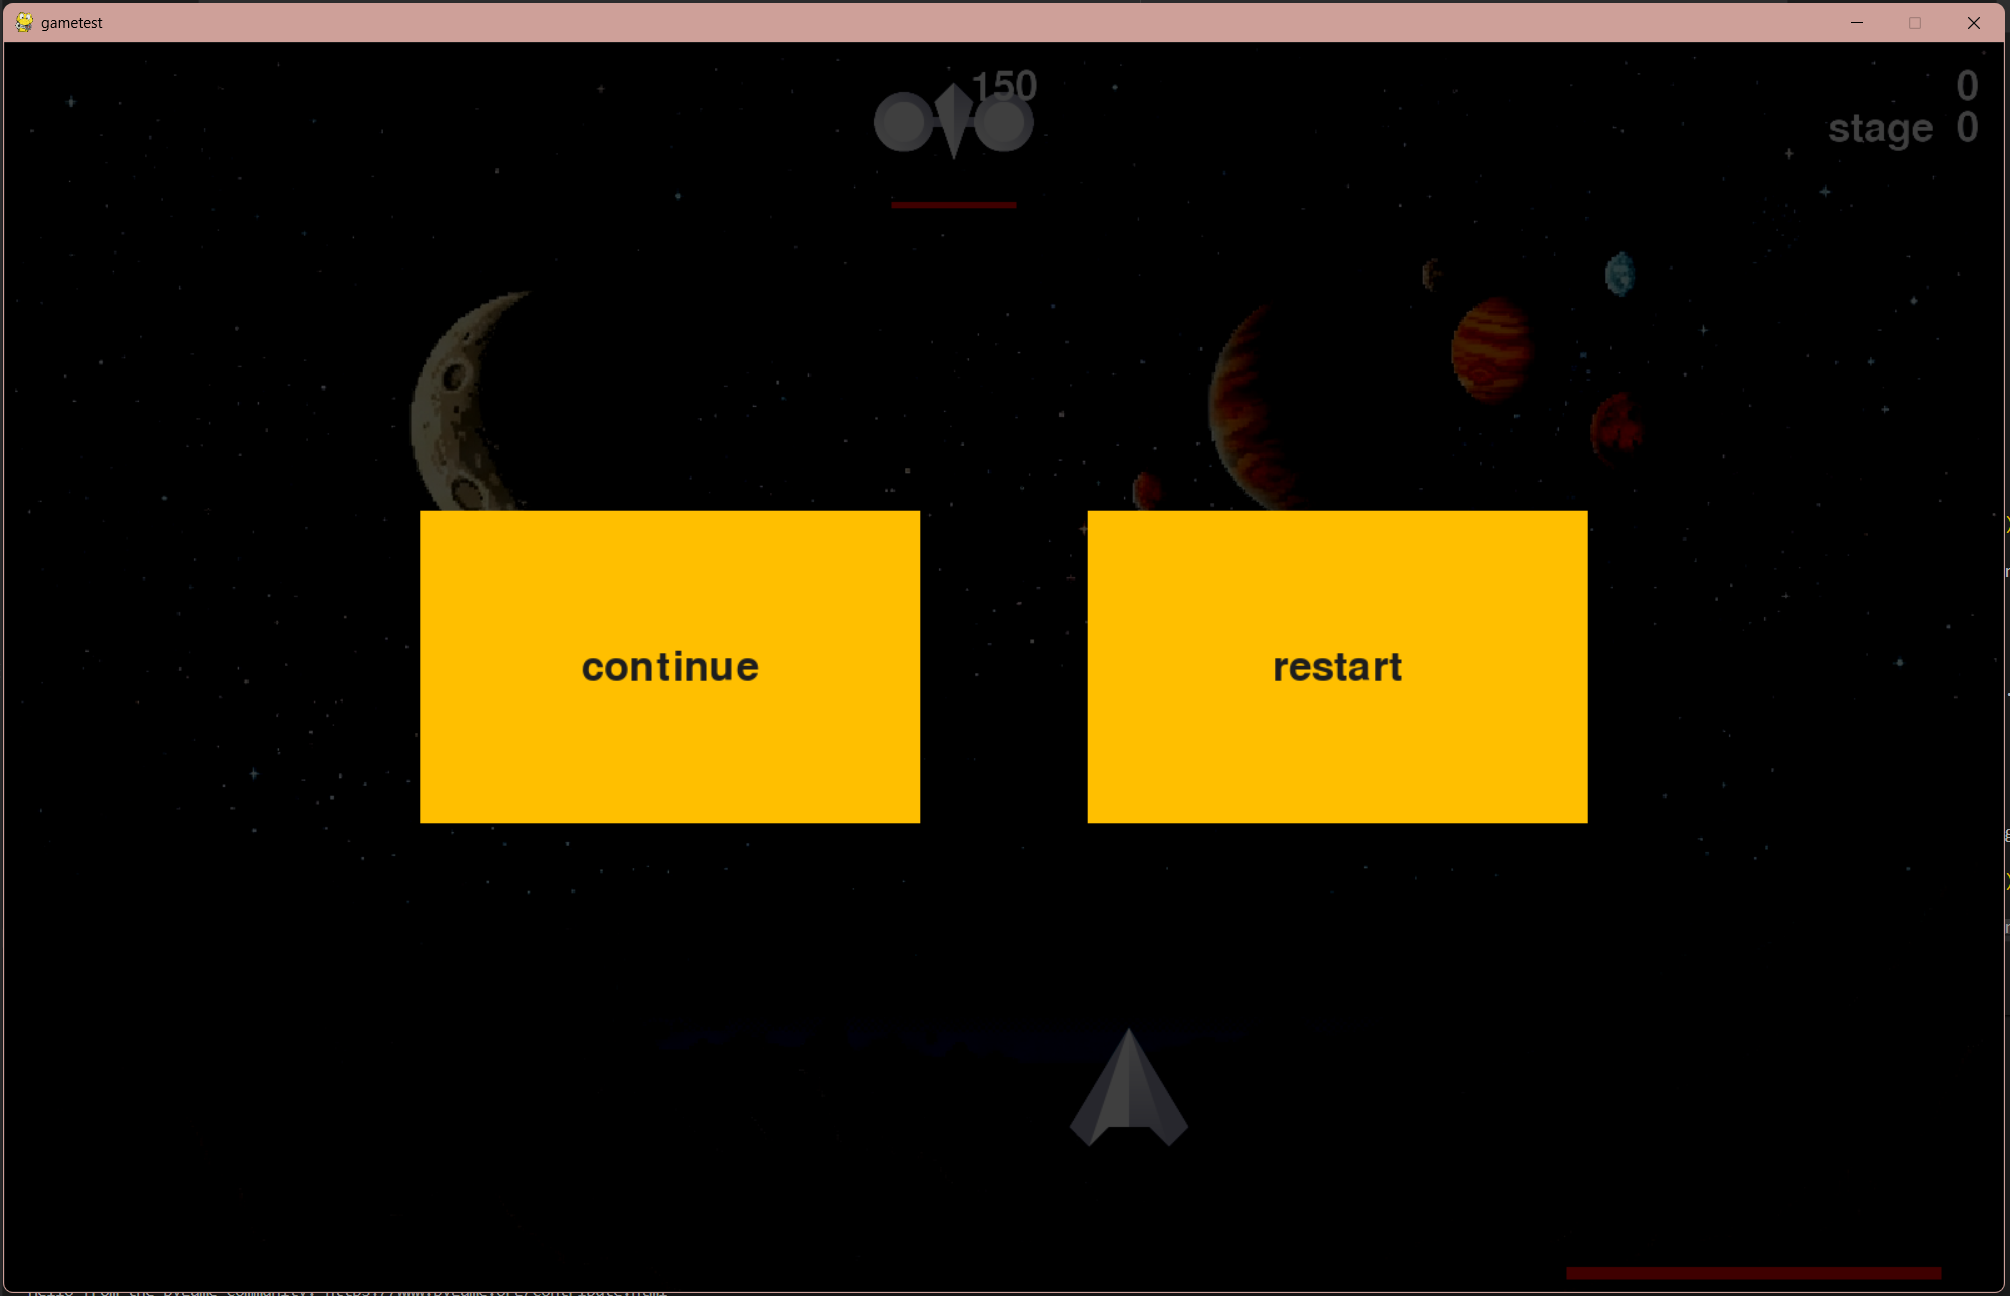
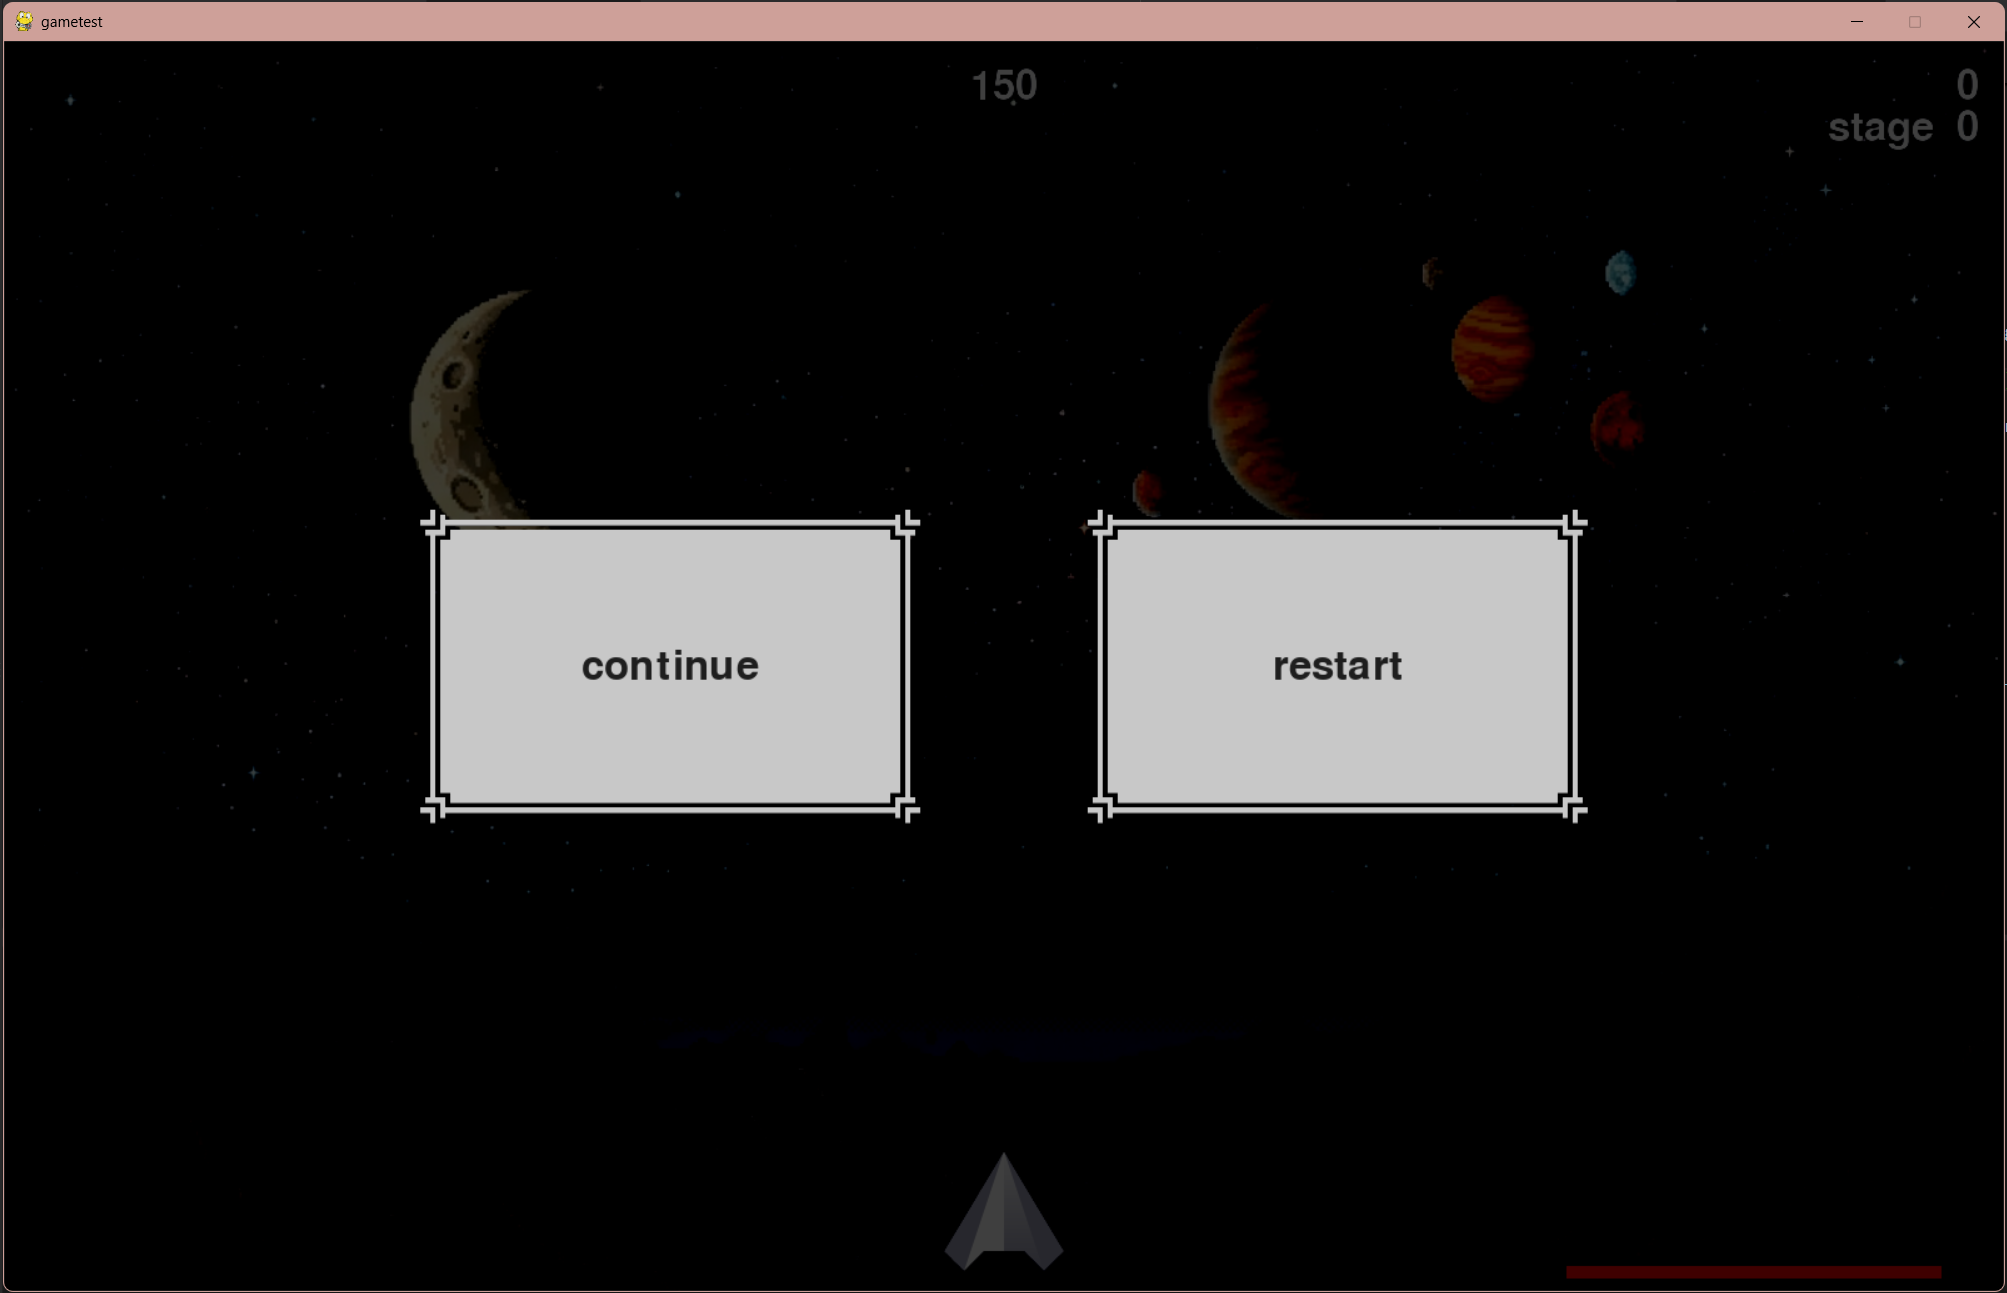
bug fix and new art textures

diff --git a/Events/game_events.py b/Events/game_events.py
@@ -18,8 +18,8 @@ class Game_Events:
         self.scoreboard = ai_game.scoreboard       
         self.p_life_bar = self.playership.life_bar
         self.bg_ori = self.ai_game.prep_Pic.prep_bg(self.ai_game.game_stats.stage)
-        self.bg = pygame.transform.scale(self.bg_ori,
-                                    (self.settings.screen_width, self.settings.screen_height))
+        self.bg = pygame.transform.smoothscale(self.bg_ori,
+                                     (self.settings.screen_width, self.settings.screen_height))
          
         
      def get_spawn_loc(self,alien_type):
@@ -33,7 +33,7 @@ class Game_Events:
         if self.game_stats.score >= self.settings.stage_score[self.game_stats.stage+1]:
             self.game_stats.stage+=1
             self.bg = self.ai_game.prep_Pic.prep_bg(self.ai_game.game_stats.stage)
-            self.bg = pygame.transform.scale(self.bg,
+            self.bg = pygame.transform.smoothscale(self.bg,
                                     (self.settings.screen_width, self.settings.screen_height))
             self.bg.set_alpha(0)
             pygame.display.flip()
@@ -156,19 +156,21 @@ class Game_Events:
      def create_button(self):
          """创建游戏功能按钮"""
          #继续游戏按钮
-         self.ai_game.pause_button = Button(400,250,400,250,'continue',self.ai_game)
-         self.ai_game.pause_button.rect.centerx = self.screen.get_rect().width*1/3
-         self.ai_game.pause_button.rect.centery = self.screen.get_rect().height/2
+         self.ai_game.pause_button = Button(self.screen.get_rect().width*1/3,
+                                            self.screen.get_rect().height/2,
+                                            400,250,'continue',self.ai_game)
          #开始游戏按钮
-         self.ai_game.start_button = Button(600,400,600,75,'New Game',self.ai_game)
-         self.ai_game.start_button.rect.center = self.screen.get_rect().center
-         #生命值耗尽界面的暂停按钮
-         self.ai_game.restart_button = Button(600,400,200,150,'restart',self.ai_game)
-         self.ai_game.restart_button.rect.center = self.screen.get_rect().center
+         self.ai_game.start_button = Button(self.screen.get_rect().centerx,
+                                            self.screen.get_rect().centery,
+                                            600,75,'New Game',self.ai_game) 
+         #生命值耗尽界面的重新开始按钮
+         self.ai_game.restart_button = Button(self.screen.get_rect().centerx,
+                                              self.screen.get_rect().centery,
+                                              200,150,'restart',self.ai_game)
          #暂停界面的restart按钮
-         self.ai_game.restart_button2 = Button(600,400,400,250,'restart',self.ai_game)
-         self.ai_game.restart_button2.rect.centerx = self.screen.get_rect().width*2/3
-         self.ai_game.restart_button2.rect.centery = self.screen.get_rect().height/2
+         self.ai_game.restart_button2 = Button(self.screen.get_rect().width*2/3,
+                                               self.screen.get_rect().height/2,
+                                               400,250,'restart',self.ai_game)
 
      def save_game(self):
          """保存游戏"""

diff --git a/Events/slice.py b/Events/slice.py
@@ -1,0 +1,73 @@
+import pygame
+
+def nine_slice(image, width, height, border=20):
+    result = pygame.Surface((width, height), pygame.SRCALPHA)
+
+    src_w, src_h = image.get_size()
+
+    # 四个角
+    top_left = image.subsurface((0, 0, border, border))
+    top_right = image.subsurface(
+        (src_w - border, 0, border, border)
+    )
+    bottom_left = image.subsurface(
+        (0, src_h - border, border, border)
+    )
+    bottom_right = image.subsurface(
+        (src_w - border, src_h - border, border, border)
+    )
+
+    # 四条边
+    top = image.subsurface(
+        (border, 0, src_w - 2 * border, border)
+    )
+    bottom = image.subsurface(
+        (border, src_h - border, src_w - 2 * border, border)
+    )
+    left = image.subsurface(
+        (0, border, border, src_h - 2 * border)
+    )
+    right = image.subsurface(
+        (src_w - border, border, border, src_h - 2 * border)
+    )
+
+    # 中间
+    center = image.subsurface(
+        (border, border,
+         src_w - 2 * border,
+         src_h - 2 * border)
+    )
+
+    # 目标尺寸
+    middle_w = width - 2 * border
+    middle_h = height - 2 * border
+
+    # 四个角 —— 原尺寸，完全不变
+    result.blit(top_left, (0, 0))
+    result.blit(top_right, (width - border, 0))
+    result.blit(bottom_left, (0, height - border))
+    result.blit(bottom_right, (width - border, height - border))
+
+    # 上下边 —— 只横向拉伸
+    top_scaled = pygame.transform.scale(top, (middle_w, border))
+    bottom_scaled = pygame.transform.scale(bottom, (middle_w, border))
+
+    result.blit(top_scaled, (border, 0))
+    result.blit(bottom_scaled, (border, height - border))
+
+    # 左右边 —— 只纵向拉伸
+    left_scaled = pygame.transform.scale(left, (border, middle_h))
+    right_scaled = pygame.transform.scale(right, (border, middle_h))
+
+    result.blit(left_scaled, (0, border))
+    result.blit(right_scaled, (width - border, border))
+
+    # 中间 —— 横纵都拉伸
+    center_scaled = pygame.transform.scale(
+        center,
+        (middle_w, middle_h)
+    )
+
+    result.blit(center_scaled, (border, border))
+
+    return result

diff --git a/Public/button.py b/Public/button.py
@@ -1,23 +1,36 @@
 import pygame
 from Public.settings import Settings
 import pygame.font
-from Events.prep_Pic import prep_Pic
 
 class Button:
-    def __init__(self,pos_x,pos_y,width,height,msg,ai_game):
+    def __init__(self,rect_ctx,rect_cty,width,height,msg,ai_game):
+        #位置
         self.setting = Settings()
-        self.rect = pygame.Rect(pos_x,pos_y,width,height)
+        self.rect = pygame.Rect(0,0,width,height)
+        self.rect.centerx = rect_ctx
+        self.rect.centery = rect_cty
+        self.rect_tmp = pygame.Rect(0,0,width,height)
+        self.rect_tmp.centerx = rect_ctx
+        self.rect_tmp.centery = rect_cty
+        #字体
         self.text_color = (30,30,30)
         self.font = pygame.font.SysFont(None,48)
         self.prep_msg(msg)
-        self.button_img = ai_game.prep_Pic.prep_button()
+        #按钮图像
+        self.button_img = ai_game.prep_Pic.prep_button(width,height)
+        self.button_img.fill((200,200,200), special_flags=pygame.BLEND_RGB_MULT)
+        self.btn_img = self.button_img.copy()
+        self.btn_img_copy = self.button_img.copy()
+        self.btn_img_copy.fill((160,160,160), special_flags=pygame.BLEND_RGB_MULT)
 
-    def button_events(self,button_color_default,button_color_check):
+    def button_events(self):
         """按钮行为"""
         if self.rect.collidepoint(pygame.mouse.get_pos()):
-            self.button_color = (button_color_check) 
+            self.button_img = self.btn_img_copy
+            self.rect.centery = self.rect_tmp.centery + 1
         else:
-            self.button_color = button_color_default
+            self.button_img = self.btn_img
+            self.rect.centery = self.rect_tmp.centery
 
     
     def prep_msg(self,msg):
@@ -28,8 +41,8 @@ class Button:
         
             
     def draw_button(self,ai_game):
-        """绘制按钮"""
-        ai_game.screen.blit(self.button_img,(self.rect))
+        """绘制按钮"""       
+        ai_game.screen.blit(self.button_img,self.rect)
         self.msg_image_rect.center = self.rect.center
         ai_game.screen.blit(self.msg_image,self.msg_image_rect)
 

diff --git a/alien_invasion.py b/alien_invasion.py
@@ -41,8 +41,10 @@ class AlienInvasion:
         """开始游戏主循环"""
         while True:
             """游戏开始前进行事件检测"""
-            self.screen.blit(self.prep_Pic.bg["0"],(0,0))
-            self.start_button.button_events((0,142,255),(0,76,136))
+            self.bg0 = pygame.transform.smoothscale(self.prep_Pic.bg["0"],
+                                                (self.settings.screen_width, self.settings.screen_height))
+            self.screen.blit(self.bg0,(0,0))
+            self.start_button.button_events()
             self.scoreboard.prep_highscore()
             
             self.start_button.draw_button(self)
@@ -78,12 +80,11 @@ class AlienInvasion:
             elif self.Pause:
                 #绘制暂停页面                    
                 self.event.draw_pause_lay()   
-                self.pause_button.button_events((255,191,0),(141,105,0))
+                self.pause_button.button_events()
                 self.pause_button.draw_button(self) 
-                self.restart_button2.button_events((255,191,0),(141,105,0))                    
+                self.restart_button2.button_events()                    
                 self.restart_button2.draw_button(self)
                 self.hardware_event.check_events()
-                #self.restart_button.button_events((0,0,0),(0,0,0)) 暂停页面的重新开始游戏按钮
                                       
             if self.Dead:    
                 #更新最高分数
@@ -96,7 +97,7 @@ class AlienInvasion:
                     self.transparency_count+=1
                     
                 #重新开始按钮
-                self.restart_button.button_events((255,191,0),(141,105,0))                    
+                self.restart_button.button_events()                    
                 self.restart_button.draw_button(self)
                 self.hardware_event.check_events()
                 

diff --git a/Events/prep_Pic.py b/Events/prep_Pic.py
@@ -1,4 +1,5 @@
 import pygame
+from Events.slice import nine_slice
 
 class prep_Pic:
     def __init__(self,ai_game):
@@ -21,7 +22,7 @@ class prep_Pic:
         # self.bg_3 = pygame.image.load('resource/Images/BG/stage_3.png').convert_alpha()
         # self.bg_4 = pygame.image.load('resource/Images/BG/stage_4.png').convert_alpha()
 
-        self.btm_img = pygame.image.load('resource/Images/borders/button.png').convert_alpha()
+        self.btm_img_ori = pygame.image.load('resource/Images/borders/button.png').convert_alpha()
         
 
     def prep_player(self):
@@ -40,7 +41,7 @@ class prep_Pic:
         bg = self.bg[str(stage)]
         return bg
 
-    def prep_button(self):
-        button_img = self.btm_img
+    def prep_button(self,width,height):
+        button_img = nine_slice(self.btm_img_ori,width,height,border=24)
         return button_img
     

diff --git a/Public/Game_Stats.py b/Public/Game_Stats.py
@@ -13,13 +13,16 @@ class game_stats:
 
     def reset_game(self):
         """重置游戏"""
-        print(self.ai_game.game_stats.high_score)
         if self.ai_game.Dead:
             self.ai_game.Dead = False
         if self.ai_game.Pause:
             self.ai_game.Pause = False
         self.ai_game.game_stats.score = 0
         self.ai_game.game_stats.stage = 0
+        self.ai_game.event.bg = self.ai_game.prep_Pic.prep_bg(self.ai_game.game_stats.stage)
+        self.ai_game.event.bg = pygame.transform.smoothscale(self.ai_game.event.bg,
+                                    (self.setting.screen_width, self.setting.screen_height))
+        self.ai_game.aliens_fleet.empty()
         self.playership.life = 200
         self.playership.rect.midbottom = self.playership.screen_rect.midbottom
         self.playership.x = float(self.playership.rect.x)

diff --git a/Events/__init__.py b/Events/__init__.py
@@ -1,5 +1,6 @@
 from .game_events import Game_Events
 from .hardware_event import Hardware_Event
 from .prep_Pic import prep_Pic
+from .slice import nine_slice
 
-__all__ = ["Game_Events","Hardware_Event","prep_Pic"]
+__all__ = ["Game_Events","Hardware_Event","prep_Pic","nine_slice"]

diff --git a/Public/settings.py b/Public/settings.py
@@ -51,6 +51,6 @@ class Settings:
         self.enemy_lfbar_width = 100
         self.enemy_lfbar_height = 5
             #shooter
-        self.Shooter_cooldown = 100 
+        self.Shooter_cooldown = 200 
 
          

diff --git a/doc/development-log.md b/doc/development-log.md
@@ -1,3 +1,26 @@
+--------2026-10-7--------------------------------------------------------------------------------------------------------------------
+**通过创建两种同个按钮图片，一个正常，一个变暗状态解决了问题，原本按钮所在图层被暂停状态下绘制的额外图层覆盖。
+**通过改变rect位置使鼠标放到按钮上现在会使按钮下沉
+**在reset方法中重新准备了背景图片，现在resetgame后能正常回到stage1的背景图片
+
+**计划为玩家血条增加外框纹理
+**计划改变checkscore方法中的smoothscale位置以增加性能
+
+--------2026-10-6--------------------------------------------------------------------------------------------------------------------
+**使用empty()方法实现了restart清空敌人飞船的功能
+
+**restart后背景图片没有同时变回stage1的背景
+**认为暂停界面的两个按钮绘制在了screen图层，在draw_pause_lay方法绘制的图层之下，所以无法正常进行互动
+
+**计划为玩家血条增加外框纹理
+
+--------2026-10-5--------------------------------------------------------------------------------------------------------------------
+**使用'九宫格'方法实现了拉伸按钮素材,自适应所需绘制大小
+**改变了按钮创建参数，现在通过改变按钮的透明度实现与鼠标的互动（变暗效果）
+
+**！发现了问题：点击暂停页面的restart按钮不会清空敌人飞船，只会重置分数和stage
+    *！暂停界面的restart和continue按钮鼠标可以点击，但互动时不会像预期的一样变暗
+
 --------2026-10-3--------------------------------------------------------------------------------------------------------------------
 **导入了新的按钮图片素材
     后续需要进行非等比缩放进行大小适应，在每个按钮图像下加入灰色背景以实现鼠标悬停时变暗的效果

diff --git a/README.md b/README.md
@@ -22,11 +22,12 @@ software project.
 - Player and enemy health systems
 - Collision detection
 - Score system
-- High-score system(developing)
+- High-score system
 - Level progression
 - Dynamic enemy difficulty
 - Pause system
 - Interactive buttons
+- Switch background picture in each stage
 
 ## Screenshots
 
@@ -37,7 +38,7 @@ software project.
 
 ### Pause Menu
 
-![截图](./resource/intro/Pause_menu.png)
+![截图](./resource/intro/pause_menu.png)
 
 
 ## Project Structure
@@ -50,6 +51,8 @@ Alien_Invation/
 │
 ├── Events/
 │   ├── game_events
+│   ├──slice
+│   ├──prep_Pic
 │   └── hardware_event
 │
 ├── Public/
@@ -60,24 +63,19 @@ Alien_Invation/
 │   ├── Game_Stats
 │   ├── life_bar
 │   ├── scoreboard
-
 │   └── settings
 │
 ├── resource/
 │   └── Images/
-│       ├── Gemini_Generated_Image_u2eywyu2eywyu2ey.png
-│       ├── shiip.bmp
-│       ├── shiip_1.bmp
-│       ├── shiip_2 (2).bmp
-│       ├── shiip_2.bmp
-│       ├── Shooter.bmp
-│       └── Shooter.png
+│       ├── intro/(...)
+│       └── resources/(...)
+├──doc/
+│   ├──architecture
+│   └──development-log
 │
 ├── alien_invasion.py
 ├── player_ship.py
-├── architecture.md
-├── DEVELOPE.txt
-├── 123123123
+├──savefile.json
 └── README.md
 ```
 
@@ -101,6 +99,7 @@ Alien_Invation/
 - [x] Restart button
 - [x] High score display
 - [x] Add game background
+- [x] refactor button arts
 
 ### In Progress
 - [ ] Improve game UI
